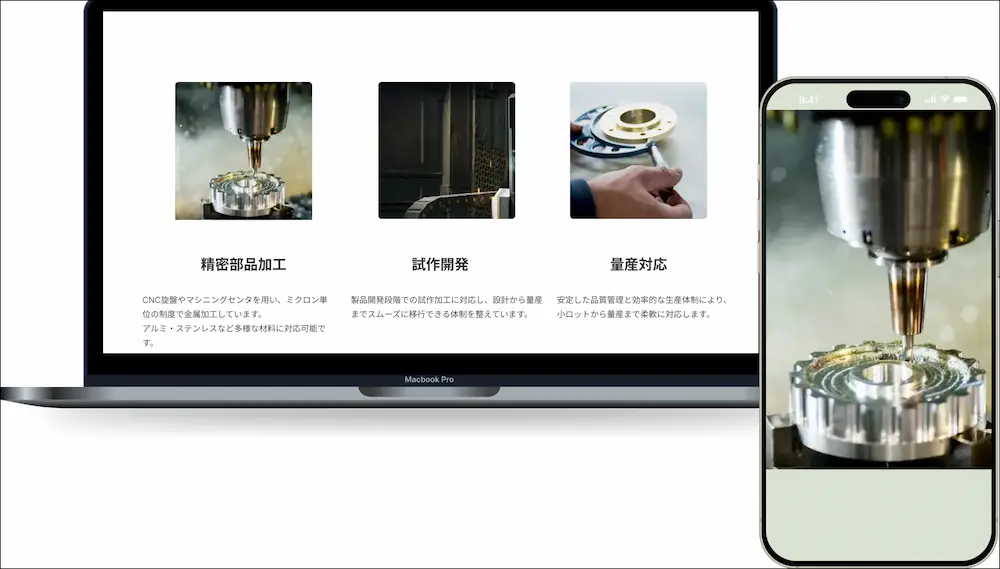
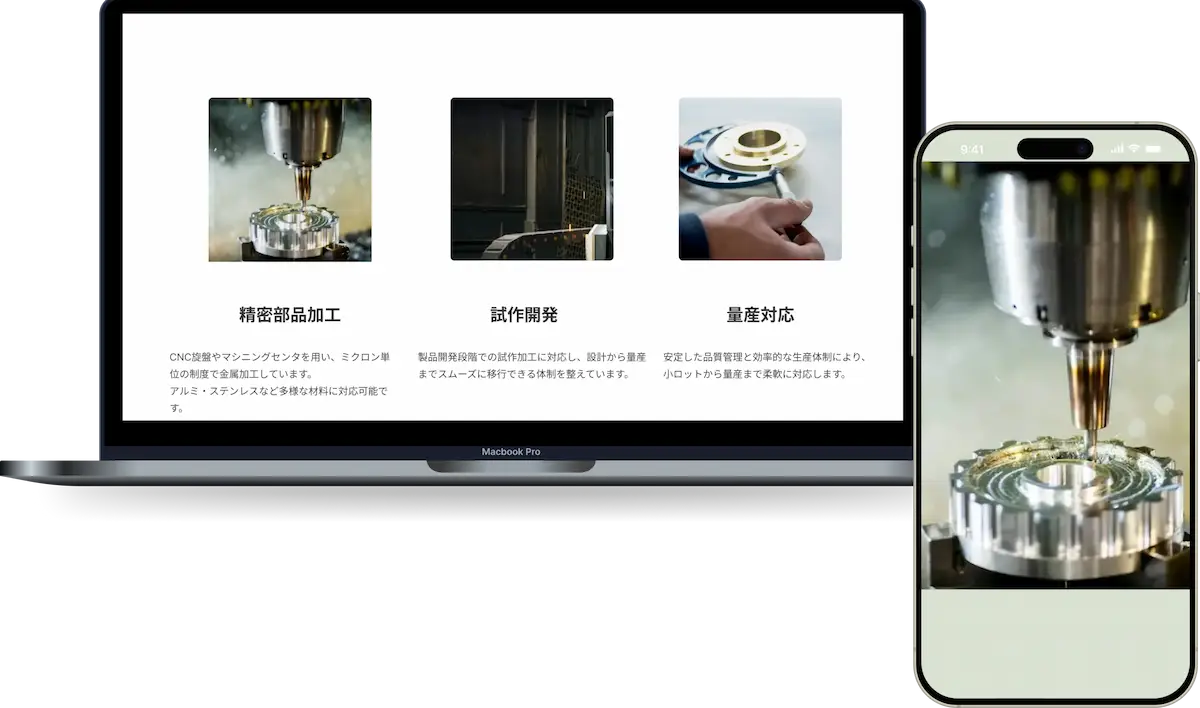
works-kvを作成

diff --git a/works.html b/works.html
@@ -81,38 +81,40 @@
             </button>
         </div><!-- /.l-header -->
         <main>
-            <section class="works-kv">
-                <div class="works-kv-content">
-                    <div class="works-kv-meta">
-                        <ul class="works-kv-meta-list">
-                            <li class="works-kv-meta-item">
-                                <a href="./index.html">HOME</a>
-                            </li>
-                            <li class="works-kv-meta-item">
-                                <a href="./works.html">WORK</a>
-                            </li>
-                            <li class="works-kv-meta-item">
-                                <span class="works-kv-meta-item-text">コーポレートサイト制作</span>
-                            </li>
-                        </ul>
-                    </div><!-- / -->
-
-                    <div class="works-kv-title-link">
-                        <span class="works-kv-title-en">WORKS DETAIL</span>
-                        <h2 class="works-kv-title-ja">コーポレートサイト制作</h2>
-                    </div><!-- /.works-kv-title-link -->
-
-                    <p class="works-kv-text">金属加工会社のコーポレートサイト制作しました。</p><!-- / -->
-
-                    <div class="works-kv-tag">
-                        <span class="works-kv-tag-item">Design</span>
-                        <span class="works-kv-tag-item">Coding</span>
-                        <span class="works-kv-tag-item">Responsive</span>
+            <section class="works-kv l-container">
+                <div class="works-kv-inner">
+                    <div class="works-kv-content">
+                        <div class="works-kv-breadcrumbs">
+                            <ul class="works-kv-breadcrumbs-list">
+                                <li class="works-kv-breadcrumbs-item">
+                                    <a href="./index.html">HOME</a>
+                                </li>
+                                <li class="works-kv-breadcrumbs-item">
+                                    <a href="./works.html">WORK</a>
+                                </li>
+                                <li class="works-kv-breadcrumbs-item">
+                                    <span class="works-kv-breadcrumbs-item-text">コーポレートサイト制作</span>
+                                </li>
+                            </ul>
+                        </div><!-- / -->
+    
+                        <div class="works-kv-title-link">
+                            <span class="works-kv-title-en">WORKS DETAIL</span>
+                            <h2 class="works-kv-title-ja">コーポレートサイト制作</h2>
+                        </div><!-- /.works-kv-title-link -->
+    
+                        <p class="works-kv-text">金属加工会社のコーポレートサイト制作しました。</p><!-- / -->
+    
+                        <div class="works-kv-tag">
+                            <span class="works-kv-tag-item">Design</span>
+                            <span class="works-kv-tag-item">Coding</span>
+                            <span class="works-kv-tag-item">Responsive</span>
+                        </div>
+                    </div><!-- /.works-content -->
+                    <div class="works-kv-img">
+                        <img src='./img/device.webp' width='1000' height='569' alt='' decoding='async' />
                     </div>
-                </div><!-- /.works-content -->
-                <div class="works-kv-img">
-                    <img src='./img/device.webp' width='1000' height='569' alt='' decoding='async' />
-                </div>
+                </div class="">
             </section><!-- /.works-kv -->
         </main>
         <footer class="footer">

diff --git a/css/style.css b/css/style.css
@@ -1048,44 +1048,86 @@ page > top > top-contact
 page > works > works-kv
 ------------------------------
 */
+.works-kv-inner {
+  display: grid;
+  grid-template-columns: 1fr;
+  margin-top: 100rem;
+}
+@media screen and (min-width: 768px) {
+  .works-kv-inner {
+    grid-template-columns: repeat(2, 1fr);
+  }
+}
+
+.works-kv-breadcrumbs-list {
+  display: -webkit-box;
+  display: -ms-flexbox;
+  display: flex;
+  -webkit-box-align: center;
+      -ms-flex-align: center;
+          align-items: center;
+  gap: 10rem;
+}
+
+.works-kv-breadcrumbs-item {
+  font-size: 14rem;
+}
+.works-kv-breadcrumbs-item:not(:last-child)::after {
+  content: "/";
+  margin-left: 10rem;
+}
+
+.works-kv-title-link {
+  margin-top: 40rem;
+}
+
+.works-kv-title-en {
+  font-size: 20rem;
+  font-weight: bold;
+  font-family: var(--font-family-en);
+}
+
+.works-kv-title-ja {
+  font-size: 40rem;
+  font-weight: bold;
+  margin-top: 16rem;
+  line-height: 1;
+}
+
+.works-kv-text {
+  margin-top: 20rem;
+}
+
+.works-kv-tag {
+  margin-top: 16rem;
+  display: -webkit-box;
+  display: -ms-flexbox;
+  display: flex;
+  gap: 10rem;
+  -webkit-box-align: center;
+      -ms-flex-align: center;
+          align-items: center;
+}
+
+.works-kv-tag-item {
+  font-size: 12rem;
+  border-radius: 6rem;
+  padding: 2rem 6rem;
+  background-color: var(--color-gray-light);
+  font-family: var(--font-family-en);
+  letter-spacing: 0.1em;
+  font-weight: bold;
+}
+
+.works-kv-img {
+  margin-top: 50rem;
+}
 
 /*!
-page > works > works-skill
+page > about > about-staff
 ------------------------------
 */
 /*!
-page > works > works-flow
-------------------------------
-*/
-/*!
-page > service > service-detail
-------------------------------
-*/
-/*!
-page > service > service-case
-------------------------------
-*/
-/*!
-page > news > news-archive
-------------------------------
-*/
-/*!
-page > recruit > recruit-position
-------------------------------
-*/
-/*!
-page > recruit > recruit-benefit
-------------------------------
-*/
-/*!
-page > recruit > recruit-culture
-------------------------------
-*/
-/*!
-page > recruit > recruit-entry
-------------------------------
-*/
-/*!
-page > contact > contact-form
+page > about > about-company
 ------------------------------
 */

diff --git a/scss/page/works/_works-kv.scss b/scss/page/works/_works-kv.scss
@@ -5,59 +5,87 @@ page > works > works-kv
 ------------------------------
 */
 .works-kv {
-    background-color: red;
-    display: flex;
-    justify-content: center;
-    align-items: center;
+    
+}
+
+.works-kv-inner {
+    display: grid;
+    grid-template-columns: 1fr;
+    margin-top: 100rem;
+
+    @include g.mq() {
+        grid-template-columns: repeat(2, 1fr);
+    }
 }
 
 .works-kv-content {
-    background-color: blue;
+    
 }
 
-.works-kv-meta {
+.works-kv-breadcrumbs {
+    
+}
+
+.works-kv-breadcrumbs-list {
     display: flex;
     align-items: center;
-    color: red;
+    gap: 10rem;
 }
 
-.works-kv-meta-list {
+.works-kv-breadcrumbs-item {
+    font-size: 14rem;
 
+    &:not(:last-child) {
+        &::after {
+            content: "/";
+            margin-left: 10rem;
+        }
+    }
 }
 
-.works-kv-meta-item {
-
-}
-
-.works-kv-meta-item-text {
+.works-kv-breadcrumbs-item-text {
 
 }
 
 .works-kv-title-link {
-
+    margin-top: 40rem;
 }
 
 .works-kv-title-en {
-    color: red;
+    font-size: 20rem;
+    font-weight: bold;
+    font-family: var(--font-family-en);
 }
 
 .works-kv-title-ja {
-
+    font-size: 40rem;
+    font-weight: bold;
+    margin-top: 16rem;
+    line-height: 1;
 }
 
 .works-kv-text {
-
+    margin-top: 20rem;
 }
 
 .works-kv-tag {
-
+    margin-top: 16rem;
+    display: flex;
+    gap: 10rem;
+    align-items: center;
 }
 
 .works-kv-tag-item {
-
+    font-size: 12rem;
+    border-radius: 6rem;
+    padding: 2rem 6rem;
+    background-color: var(--color-gray-light);
+    font-family: var(--font-family-en);
+    letter-spacing: 0.1em;
+    font-weight: bold;
 }
 
 .works-kv-img {
-
+    margin-top: 50rem;
 }
 
